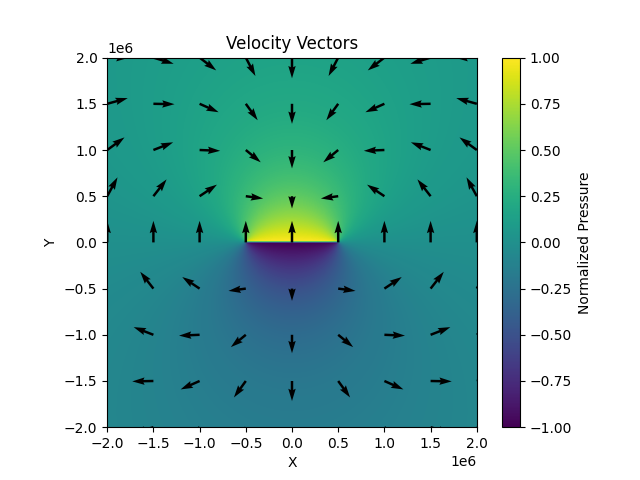
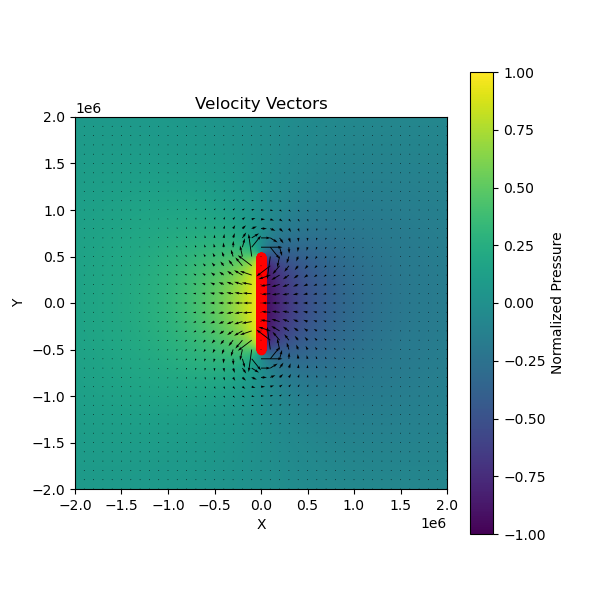
update

diff --git a/toroidal_new.py b/toroidal_new.py
@@ -11,12 +11,12 @@ T1=time.time()
 up_mantle_thick = 660e3 # km--> m
 litho_thick = 100e3 # km--> m
 lam = up_mantle_thick - litho_thick # Hele-shaw flow channel thickness -- sublithosphere thickness
-Vt = 0  # cm/yr
+Vt = 0 # cm/yr
 Vm = 0  # cm/yr 
 Vr = 3. # cm/yr
 cmyr_to_ms = 1. / (365.25 * 24 * 60 * 60)  # Conversion factor from cm/yr to m/s
 Vt, Vm, Vr = Vt * cmyr_to_ms, Vm * cmyr_to_ms, Vr * cmyr_to_ms
-print(Vr)
+#print(Vr)
 viscosity = 1.e20  # N*s / m2
 a = 500e3 # km--> m  half-width of slab
 
@@ -36,31 +36,34 @@ plt.ylim([y.min(), y.max()])
 plt.xlabel('X')
 plt.ylabel('Y')
 plt.title('Slab Points on the X-Y Domain')
-plt.legend()
-plt.grid(True)
-plt.savefig("a.png")
+#plt.legend()
+#plt.grid(True)
+plt.savefig("slab.png")
+
 
 # solve matrix equation [B][A]=[C]
 matrix_C = np.zeros_like(yi)
 matrix_C[:] = (Vr - ( Vt + Vm )/2 )  * 12 * viscosity / (lam **2)
 matrix_C = matrix_C.reshape(-1,1)  # transform from list to array, to avoid format warning from python
+print(matrix_C.shape)
 
-matrix_B = np.zeros((len(yi), len(yi)))
+
+
+matrix_B = np.zeros((len(yi), len(yi)))   # consider the points on the slab, xi=0, yi= (-a, a), x = 0, y=(-a,a)
 matrix_B[:] = np.nan
 for i in range(len(yi)):
     for j in range(len(yi)):
-        if (yi[i] - yi[j])==0: 
+        if i==j: 
             matrix_B[i, j] = 0
         else:
             matrix_B[i, j] =   - 1 / (yi[i] - yi[j])**2
 
-matrix_B = np.nan_to_num(matrix_B)  #  there is situation that denominator is 0, replace nan with 0 to avoid error message from following solve function
-print(matrix_B.shape)
+#print(matrix_B.shape, matrix_B)
 
 matrix_A = solve(matrix_B,matrix_C)
 print(matrix_A.shape)
 array_A = matrix_A.reshape(len(matrix_A[:,0]))  # transform from list to array, to avoid format warning from python
-#print(array_A)
+print(array_A.shape)
 
 # calculate the Pressure
 @jit(nopython=True)
@@ -77,7 +80,6 @@ def calculate_pressure(x, y, yi, array_A,xi):
 Pressure = calculate_pressure(x, y, yi, array_A,xi)
 print(Pressure.shape)
 
-
 #normalized pressure
 max_pressure = np.max(Pressure)
 normalized_pressure = Pressure / max_pressure
@@ -87,10 +89,12 @@ plt.imshow(normalized_pressure, cmap='viridis', extent=[x.min(), x.max(), y.min(
 plt.colorbar(label='Normalized Pressure')
 plt.xlabel('X')
 plt.ylabel('Y')
-plt.title('Normalized Pressure Field (Maximum Pressure = 1)')
+plt.title('Normalized Pressure Field')
 plt.savefig("normalized_pressure.png")
 T2=time.time()
-plt.close()
+
+
+
 
 
 # calculate the Vx and Vy
@@ -102,8 +106,12 @@ def calculate_vx(x, y, yi, array_A,xi):
             for i in range(len(yi)):
                 denominator =   (x[q] - xi) ** 2 + (y[p] - yi[i]) ** 2
                 coefficient = (lam **2)/ (12 * viscosity)
-                if denominator != 0:
-                    vx[p, q] += ( (Vt+Vm)/2 - array_A[i] * coefficient * ( (y[p] - yi[i]) ** 2 -(x[q] - xi) ** 2 ) / ( (x[q] - xi) ** 2 + (y[p] - yi[i]) ** 2)**2 ) /Vr
+                if x[q] ==xi and -a<= y[p] <= a :
+                    vx[p, q] = 0
+                else:
+                    vx[p, q] += ( (Vt+Vm)/2 + array_A[i] * coefficient * ( (x[q] - xi) ** 2 - (y[p] - yi[i]) ** 2) / (denominator **2) ) /Vr
+                
+                    
                 
     return vx
 
@@ -118,24 +126,25 @@ def calculate_vy(x, y, yi, array_A,xi):
     for p in range(len(y)):
         for q in range(len(x)):
             for i in range(len(yi)):
-                coefficient = (lam **2)/ (12 * viscosity)
+                coefficient = (lam **2)/ (6 * viscosity)
                 denominator =  (x[q] - xi) ** 2 + (y[p] - yi[i]) ** 2
-                if denominator != 0:
-                    vy[p, q] += ( coefficient   *  (2 * array_A[i] * (x[q] - xi) * (y[p] - yi[i]) )  /   ( (x[q] - xi) ** 2 + (y[p] - yi[i]) ** 2) **2 ) /Vr
-             
+                if x[q] ==xi and -a<= y[p] <= a :
+                    vy[p, q] = 0
+                else:
+                    vy[p, q] += ( coefficient   *  ( array_A[i] * (x[q] - xi) * (y[p] - yi[i]) )  /   ( denominator **2 )   )/Vr
     return vy
 
 vy = calculate_vy(x, y, yi, array_A,xi)
 print(vy.shape)
 print(np.max(vy),np.min(vy))
 # Save the normalized pressure field as an image
-plt.imshow(normalized_pressure, cmap='viridis', extent=[x.min(), x.max(), y.min(), y.max()])
+
 
 
 # Plot velocity vectors
 plt.quiver(x[::10], y[::10], vx[::10,::10], vy[::10,::10],scale=0.1)
 plt.xlabel('X')
 plt.ylabel('Y')
-plt.colorbar(label='Normalized Pressure')
+
 plt.title('Velocity Vectors')
 plt.savefig("velocity_vectors.png")
